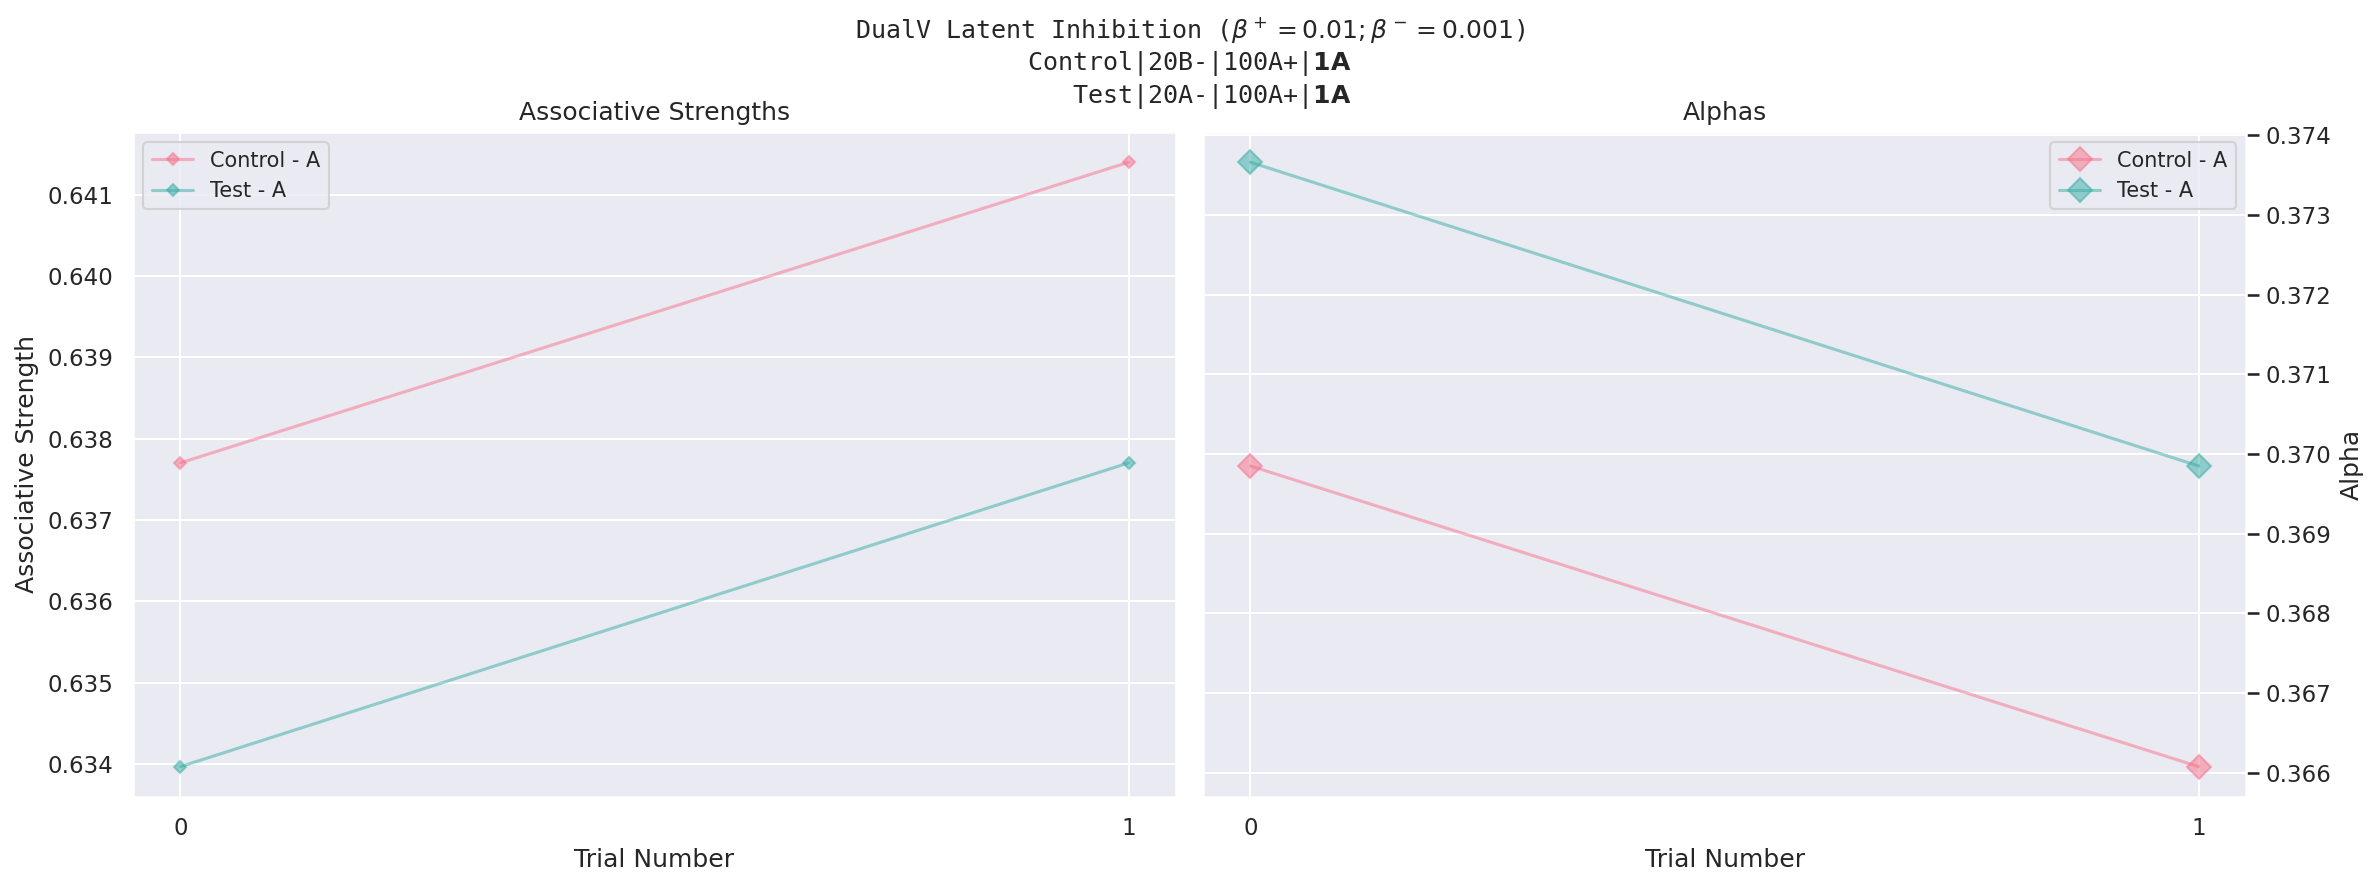
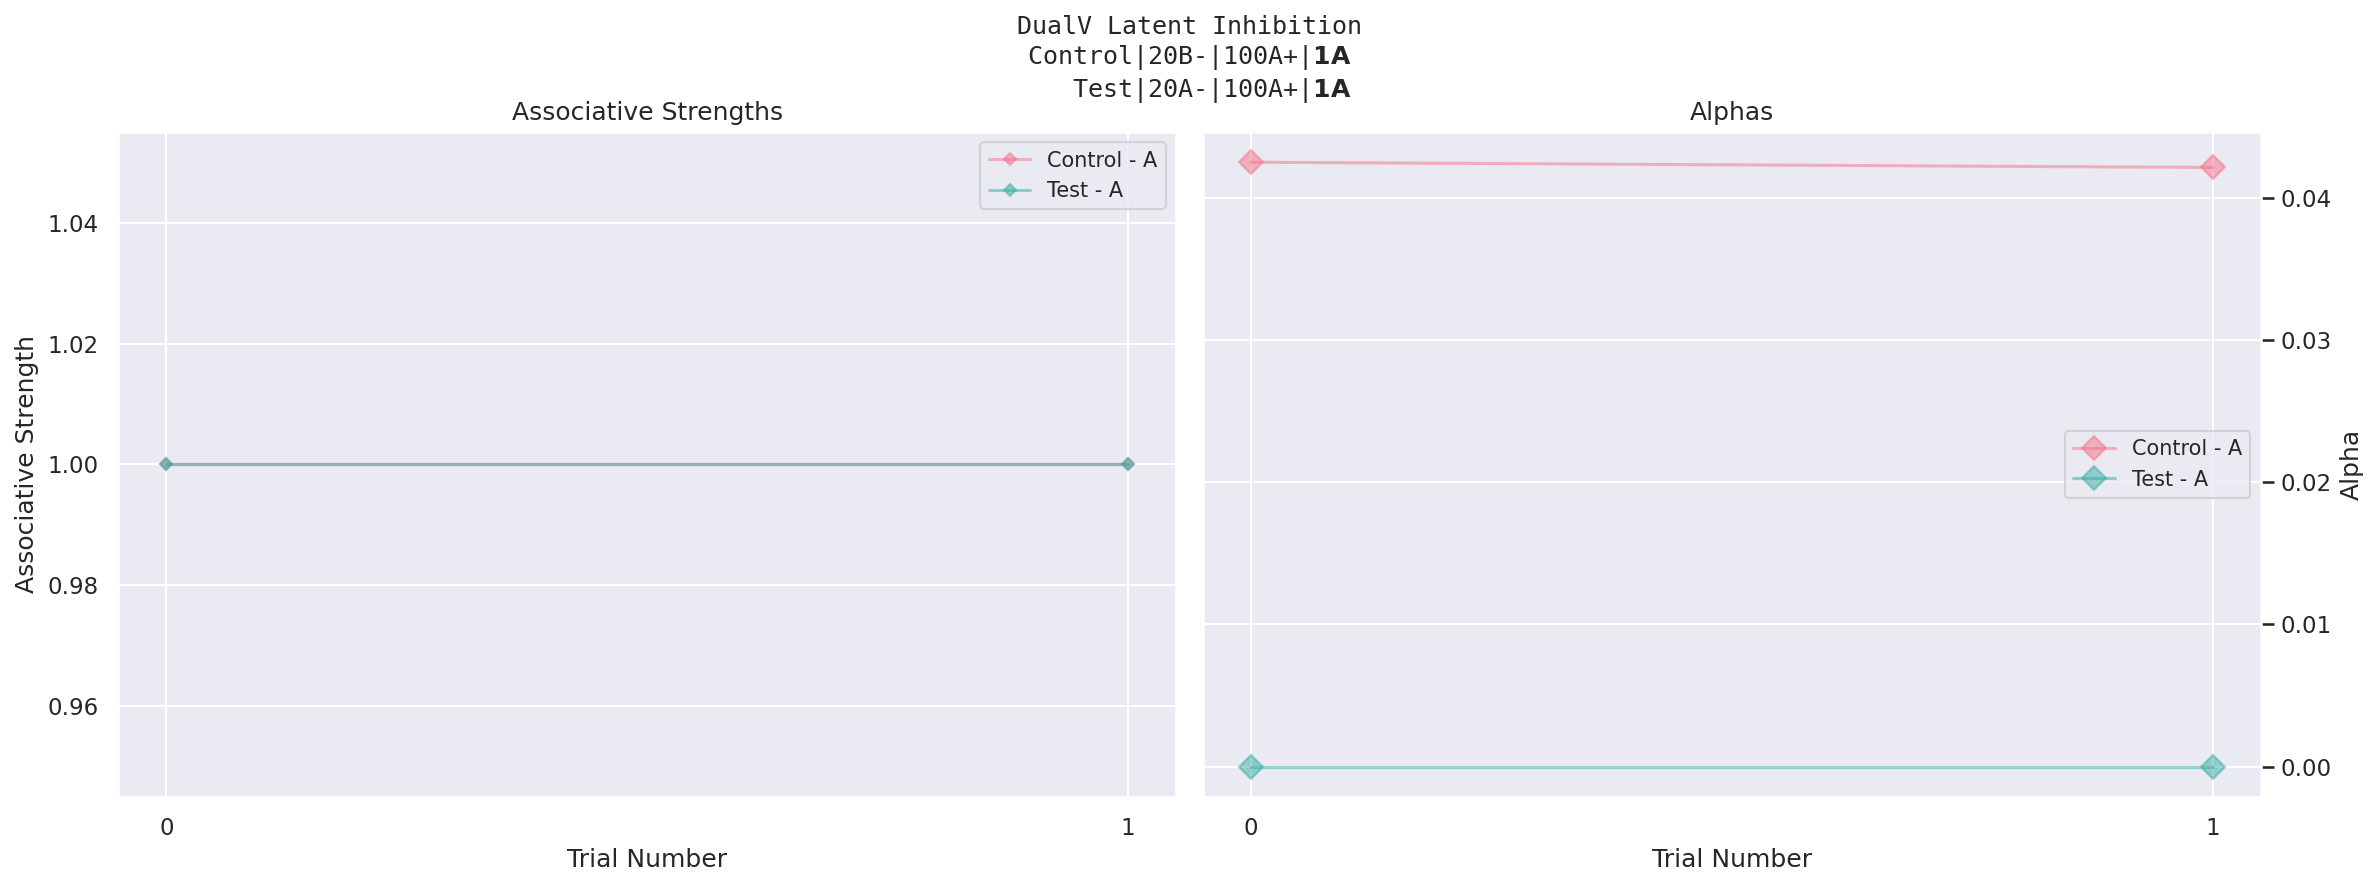
Adding hybrid adaptive type.

diff --git a/RW_group.py b/RW_group.py
@@ -123,7 +123,7 @@ class Group:
                     hist[cs] = History()
                     hist[cs].add(self.s[cs])
 
-                self.runLearning(cs, beta, lamda, sign, sigma, sigmaE, sigmaI)
+                self.step(cs, beta, lamda, sign, sigma, sigmaE, sigmaI)
 
                 if self.window_size is not None:
                     if len(self.s[cs].window) >= self.window_size:
@@ -140,7 +140,7 @@ class Group:
 
         return Strengths.fromHistories(hist)
 
-    def runLearning(self, cs: str, beta: float, lamda: float, sign: int, sigma: float, sigmaE: float, sigmaI: float):
+    def step(self, cs: str, beta: float, lamda: float, sign: int, sigma: float, sigmaE: float, sigmaI: float):
         delta_v_factor = beta * (self.prev_lamda - sigma)
 
         match self.adaptive_type:
@@ -179,8 +179,8 @@ class Group:
                 else:
                     self.s[cs].Vi += self.betan * self.s[cs].alpha * abs(rho)
 
-                self.s[cs].assoc = self.s[cs].Ve - self.s[cs].Vi
                 self.s[cs].alpha = self.gamma * abs(rho) + (1 - self.gamma) * self.s[cs].alpha
+                self.s[cs].assoc = self.s[cs].Ve - self.s[cs].Vi
 
             case 'lepelley':
                 rho = lamda - (sigmaE - sigmaI)
@@ -218,6 +218,35 @@ class Group:
 
                 self.s[cs].alpha = 1/2 * (1 + self.s[cs].assoc - (VXe - VXi))
                 self.s[cs].assoc = self.s[cs].Ve - self.s[cs].Vi
+
+            case 'hybrid':
+                rho = lamda - (sigmaE - sigmaI)
+
+                NVe = 0.
+                NVi = 0.
+                if rho >= 0:
+                    NVe = self.s[cs].alpha_mack * self.s[cs].Ve + self.betap * self.s[cs].alpha_hall * lamda
+                    NVi = self.s[cs].Vi
+                else:
+                    NVe = self.s[cs].Ve
+                    NVi = self.s[cs].alpha_mack * self.s[cs].Vi + self.betan * self.s[cs].alpha_hall * abs(rho)
+
+                VXe = sigmaE - self.s[cs].Ve
+                VXi = sigmaI - self.s[cs].Vi
+                if rho > 0:
+                    self.s[cs].alpha_mack += -self.thetaE * (abs(lamda - self.s[cs].Ve + self.s[cs].Vi) - abs(lamda - VXe + VXi))
+                elif rho < 0:
+                    self.s[cs].alpha_mack += -self.thetaI * (abs(abs(rho) - self.s[cs].Vi + self.s[cs].Ve) - abs(abs(rho) - VXi + VXe))
+
+                self.s[cs].alpha_mack = min(max(self.s[cs].alpha_mack, 0.05), 1)
+                self.s[cs].alpha_hall = self.gamma * abs(rho) + (1 - self.gamma) * self.s[cs].alpha_hall
+
+                self.s[cs].Ve = NVe
+                self.s[cs].Vi = NVi
+
+                self.s[cs].assoc = self.s[cs].Ve - self.s[cs].Vi
+
+                print(f'{cs}:\t𝛒 = {rho:.3f}; Ve = {self.s[cs].Ve:.3f}; Vi = {self.s[cs].Vi:.3f}')
 
             case _:
                 raise NameError(f'Unknown adaptive type {self.adaptive_type}!')

diff --git a/RW_simulator.py b/RW_simulator.py
@@ -25,7 +25,7 @@ def parse_args() -> argparse.Namespace:
 
     parser.add_argument("--use-configurals", type = bool, action = argparse.BooleanOptionalAction, help = 'Use compound stimuli with configural cues')
 
-    parser.add_argument("--adaptive-type", choices = ['linear', 'exponential', 'mack', 'hall', 'macknhall', 'dualV', 'lepelley', 'dualmack'], default = 'dualV', help = 'Type of adaptive attention mode to use')
+    parser.add_argument("--adaptive-type", choices = ['linear', 'exponential', 'mack', 'hall', 'macknhall', 'dualV', 'lepelley', 'dualmack', 'hybrid'], default = 'dualV', help = 'Type of adaptive attention mode to use')
     parser.add_argument("--window-size", type = int, default = None, help = 'Size of sliding window for adaptive learning')
 
     parser.add_argument("--xi-hall", type = float, default = 0.2, help = 'Xi parameter for Hall alpha calculation')
